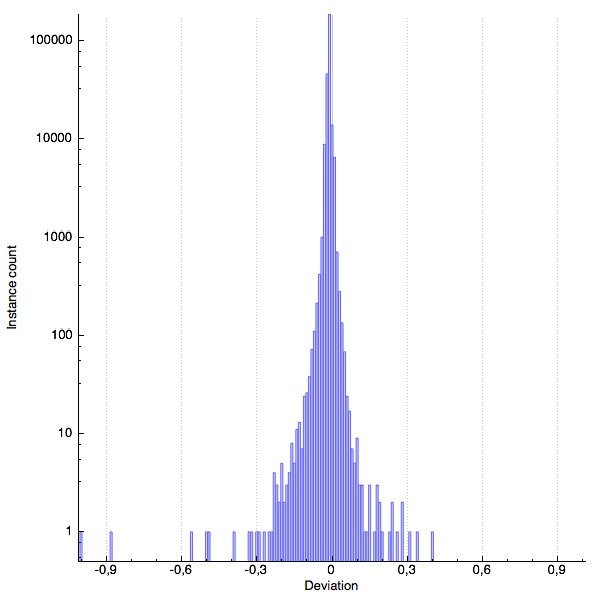
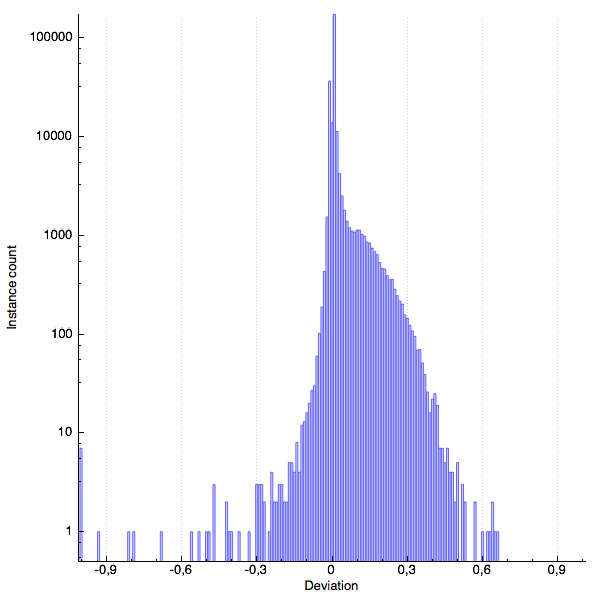
a bit better

diff --git a/nori_framework/src/ex4/path.cpp b/nori_framework/src/ex4/path.cpp
@@ -20,7 +20,7 @@ NORI_NAMESPACE_BEGIN
 
 #define GROUP_NUMBER 10
 #define probabilty_to_continue_eye 0.7
-#define probabilty_to_continue_light 0.6
+#define probabilty_to_continue_light 0.5
 
 GROUP_NAMESPACE_BEGIN()
 
@@ -133,21 +133,23 @@ public:
 		// 4. Create the ray form the light in the random direction
 		Ray3f rayL = Ray3f(it.p, direction);
 		// 5. Compute initial throughput
-		LuminaireQueryRecord lRec(it.p);
 		throughputs.push_back(Color3f(0.0f));
-		throughputs[0] = sampleLights(scene, lRec, sampler->next2D());
-		throughputs[0] = scene->evalTransmittance(Ray3f(lRec.ref, lRec.d, 0, lRec.dist), sampler);
+		throughputs[0] = luminaire->getColor() * luminaires.size() / mesh->pdf();
 		// 6. Compute the light path
 		unsigned int real_length = 1;
+		Color3f color;
 		while (true) {
-			Color3f color;
-			Intersection it;
 			// test russian roulette
 			if (sampler->next1D() >= probabilty_to_continue_light)
 				break;
 			// 6.a. Compute next intersection
 			if (!scene->rayIntersect(rayL, it))
 				break;
+			color = Color3f(1.0f);
+			if (real_length == 1) {
+				Vector3f d = it.p - itsL[0].p;
+				color *= direction.dot(normal) / d.squaredNorm();
+			}
 			// 6.b. Update throughput
 			BSDFQueryRecord bRec(it.toLocal(-rayL.d));
 			const BSDF *bsdf = it.mesh->getBSDF();
@@ -160,7 +162,7 @@ public:
 				cout << "OOps!" << endl;
 				break;
 			}
-			color = throughputs[real_length-1] * bsdfWeight / probabilty_to_continue_light;
+			color *= throughputs[real_length-1] * bsdfWeight / probabilty_to_continue_light;
 			// 6.c. Generate the new ray
 			rayL = Ray3f(it.p, it.shFrame.toWorld(bRec.wo));
 			// 6.d. Update structures
@@ -211,26 +213,26 @@ public:
 									 its.toLocal(lRec.d), ESolidAngle);
 				// Note: evalTransmittance is 1.0f in our scenes, so we could just skip it
 				result += throughput * direct * bsdf->eval(bRec)
-				* scene->evalTransmittance(Ray3f(lRec.ref, lRec.d, 0, lRec.dist), sampler)
-				* std::abs(Frame::cosTheta(bRec.wo)) ;
+						* scene->evalTransmittance(Ray3f(lRec.ref, lRec.d, 0, lRec.dist), sampler)
+						* std::abs(Frame::cosTheta(bRec.wo))
+						/ real_length;
 			}
 
 			// 4. Combine eye and light paths
 			// try to combine the current its to each point of the light path
 			// except the first point which is on the light
 			for (unsigned int i = 1; i < real_length; ++i) {
-				// already in the throughputs
-				// - direct
-				// - transmittance
 				BSDFQueryRecord bRec(its.toLocal(-ray.d),
 									 its.toLocal(itsL[i].p - its.p).normalized(), ESolidAngle);
 				// test if obstacle in the way
 				Ray3f clear = Ray3f(itsL[i].p, its.p - itsL[i].p);
 				Intersection its_tmp;
 				scene->rayIntersect(clear, its_tmp);
-				if ((its_tmp.p - itsL[i].p).squaredNorm() > (its.p - itsL[i].p).squaredNorm())
+				if ((its_tmp.p - itsL[i].p).squaredNorm() > (its.p - itsL[i].p).squaredNorm()) {
 					// update result by combining the throughputs and the bsdf evaluation
-					result += throughput * throughputs[i] * bsdf->eval(bRec) * std::abs(Frame::cosTheta(bRec.wo));
+					result += throughput * throughputs[i] * bsdf->eval(bRec)
+							* std::abs(Frame::cosTheta(bRec.wo)) / real_length;
+				}
 			}
 
 			// 5. Recursively sample indirect illumination

diff --git a/nori_framework/src/main.cpp b/nori_framework/src/main.cpp
@@ -46,7 +46,7 @@ void render(Scene *scene, const QString &filename, int version) {
 	NoriWindow window(&result);
 
 	/* Launch one render thread per core */
-	int nCores = getCoreCount();
+	int nCores = 1;//getCoreCount();
 	std::vector<BlockRenderThread *> threads;
 	for (int i=0; i<nCores; ++i) {
 		BlockRenderThread *thread = new BlockRenderThread(
